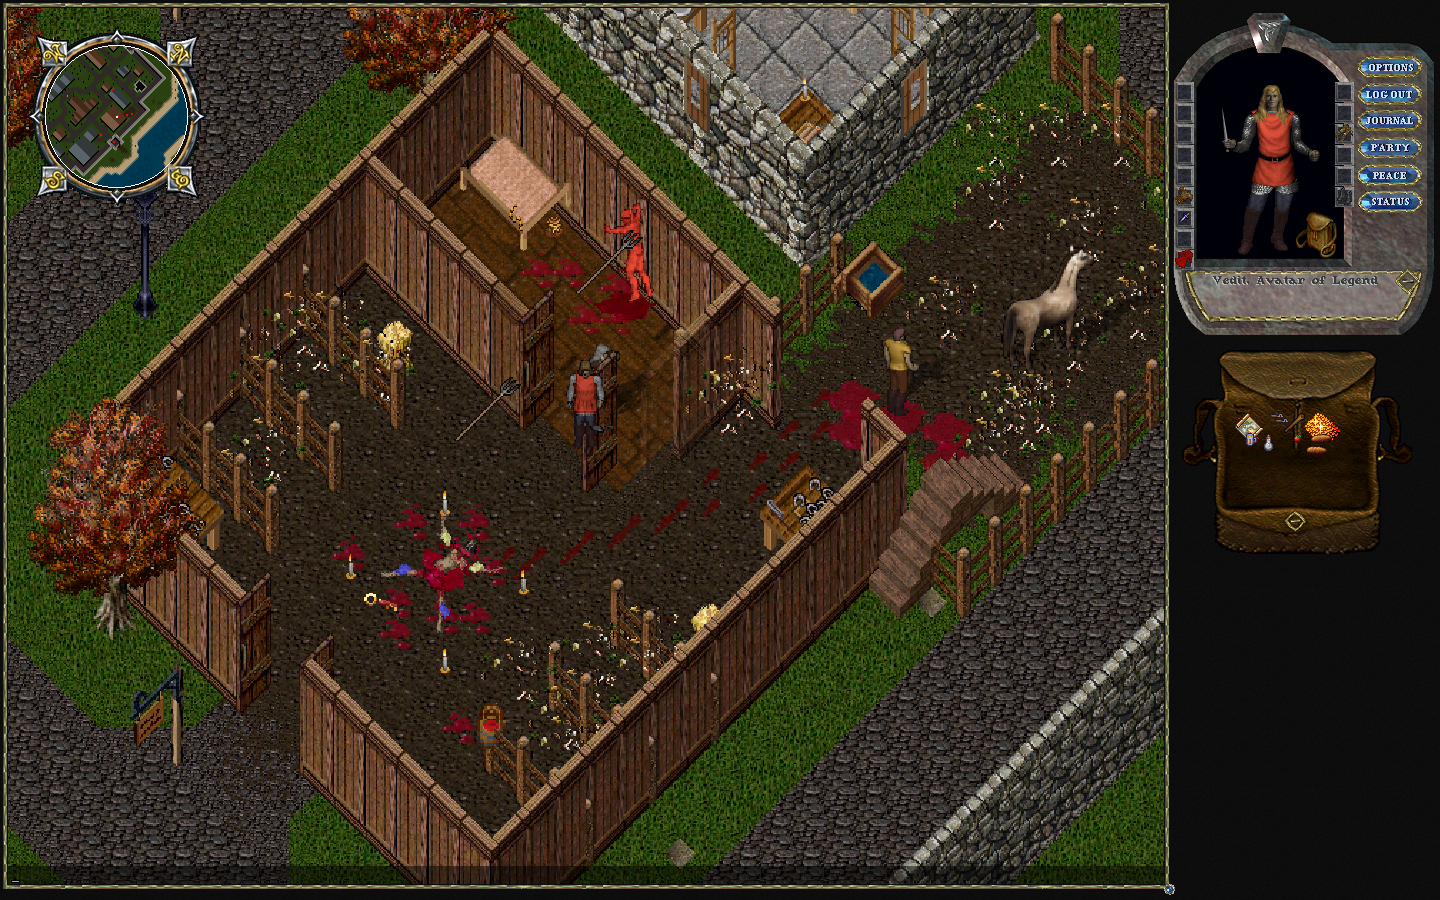
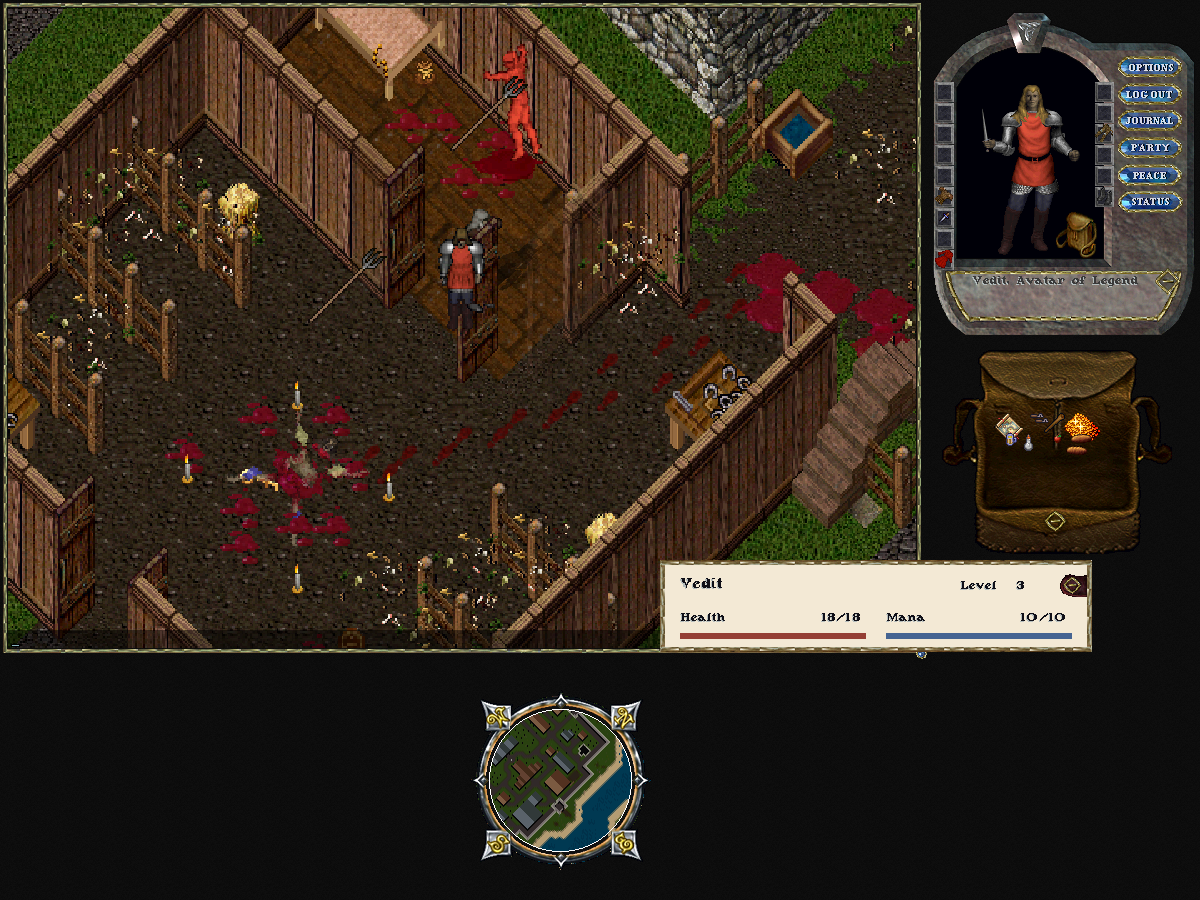
Refresh all three homepage comparisons from the current Trinsic client

diff --git a/index.html b/index.html
@@ -46,7 +46,7 @@
       <p class="build-note"><span class="status-dot" aria-hidden="true"></span> Browser demo · Bring your Ultima VII folder · No installation</p>
     </div>
     <figure class="hero-shot loadable">
-      <button class="image-open" type="button" data-compare="barn-overview" aria-label="Compare the barn murder scene in Ultima VII and Ultima Offline 7"><img src="site/barn-overview-uo7.png" width="1440" height="900" fetchpriority="high" alt="Christopher and Inamo at the Trinsic murder scene, with Vedit's paperdoll and the corrected Party button in ClassicUO."><span class="compare-invitation">U7 <span aria-hidden="true">↔</span> UO7 · Compare the scene</span></button>
+      <button class="image-open" type="button" data-compare="barn-overview" aria-label="Compare the barn murder scene in Ultima VII and Ultima Offline 7"><img src="site/barn-overview-uo7.png" width="1200" height="900" fetchpriority="high" alt="Christopher and Inamo in the Trinsic barn, with Vedit's paperdoll and compact health and mana bars."><span class="compare-invitation">U7 <span aria-hidden="true">↔</span> UO7 · Compare the scene</span></button>
       <figcaption><span><b>THE MURDER IN TRINSIC</b>U7 and UO7 · Actual gameplay captures</span><button type="button" class="caption-link" data-compare="barn-overview">Drag to compare <span aria-hidden="true">↗</span></button></figcaption>
     </figure>
   </section>
@@ -61,15 +61,15 @@
 
   <section class="comparison-section" aria-labelledby="comparison-title">
     <div class="wrap comparison-layout">
-      <div class="comparison-copy"><p class="eyebrow">FAMILIAR PLACES, SEEN ANEW</p><h2 id="comparison-title">Inside the<br>Fellowship.</h2><p>The same hall, seen through two different worlds. Compare the original Ultima VII interior with its ClassicUO presentation, from the gathering space to the familiar details.</p><div class="view-switch" role="group" aria-label="Choose a version of the Fellowship hall"><button type="button" data-view="current" aria-pressed="true">Ultima Offline 7</button><button type="button" data-view="original" aria-pressed="false">Original Ultima VII</button></div><p class="comparison-caption" id="comparison-caption" aria-live="polite">The Fellowship hall, captured in our development build.</p><a class="text-link" href="interiors.html?group=public#fellowship-hall">Explore the public interiors atlas <span aria-hidden="true">→</span></a></div>
-      <figure class="comparison-art loadable"><button class="image-open" type="button" data-compare="fellowship-interior" aria-label="Compare the Fellowship interior in Ultima VII and Ultima Offline 7"><img id="comparison-image" src="site/fellowship-interior-uo7.png" width="1440" height="900" loading="lazy" alt="The Fellowship hall interior recreated in ClassicUO."></button><figcaption>FELLOWSHIP HALL · TRINSIC <button type="button" class="caption-link" data-compare="fellowship-interior">Drag to compare ↗</button></figcaption></figure>
+      <div class="comparison-copy"><p class="eyebrow">FAMILIAR PLACES, SEEN ANEW</p><h2 id="comparison-title">Inside the<br>Fellowship.</h2><p>The same hall, seen through two different worlds. Compare the original Ultima VII interior with its ClassicUO presentation, from the gathering space to the familiar details.</p><div class="view-switch" role="group" aria-label="Choose a version of the Fellowship hall"><button type="button" data-view="current" aria-pressed="true">Ultima Offline 7</button><button type="button" data-view="original" aria-pressed="false">Original Ultima VII</button></div><p class="comparison-caption" id="comparison-caption" aria-live="polite">Vedit in the Fellowship hall with the character status sheet open.</p><a class="text-link" href="interiors.html?group=public#fellowship-hall">Explore the public interiors atlas <span aria-hidden="true">→</span></a></div>
+      <figure class="comparison-art loadable"><button class="image-open" type="button" data-compare="fellowship-interior" aria-label="Compare the Fellowship interior in Ultima VII and Ultima Offline 7"><img id="comparison-image" src="site/fellowship-interior-uo7.png" width="1200" height="900" loading="lazy" alt="Vedit in the Fellowship hall with the paperdoll and full character status sheet open."></button><figcaption>FELLOWSHIP HALL · TRINSIC <button type="button" class="caption-link" data-compare="fellowship-interior">Drag to compare ↗</button></figcaption></figure>
     </div>
   </section>
 
   <section id="trinsic" class="wrap section trinsic" aria-labelledby="trinsic-title">
     <div class="section-heading"><div><p class="eyebrow">THE FIRST PLAYABLE CHAPTER</p><h2 id="trinsic-title">It begins in <em>Trinsic.</em></h2></div><p>A strange dream. A red portal. A town with a terrible secret. Our first slice follows the opening through the murder investigation and departure through the city gate.</p></div>
     <div class="journey">
-      <figure class="dream-shot loadable"><button class="image-open" type="button" data-compare="guardian-dream" aria-label="Compare the Guardian dream with the original Ultima VII opening"><img src="site/guardian-dream-uo7.png" width="1440" height="900" loading="lazy" alt="The Guardian speaks over blue static while the Avatar sleeps on a bed in the in-engine dream sequence."></button><figcaption>A new in-engine opening, before the familiar investigation. <button type="button" class="caption-link" data-compare="guardian-dream">Compare the original Guardian ↗</button></figcaption></figure>
+      <figure class="dream-shot loadable"><button class="image-open" type="button" data-compare="guardian-dream" aria-label="Compare the Guardian dream with the original Ultima VII opening"><img src="site/guardian-dream-uo7.png" width="1200" height="900" loading="lazy" alt="The Guardian speaks over blue static while the Avatar sleeps on a bed in the in-engine dream sequence."></button><figcaption>A new in-engine opening, before the familiar investigation. <button type="button" class="caption-link" data-compare="guardian-dream">Compare the original Guardian ↗</button></figcaption></figure>
       <ol class="journey-steps"><li><span>01</span><div><h3>Become the Avatar.</h3><p>Choose your name and character, then enter the Guardian dream.</p></div></li><li><span>02</span><div><h3>Take the first step yourself.</h3><p>Wake up and walk into the red portal. Your movement carries you into Trinsic.</p></div></li><li><span>03</span><div><h3>Follow the original mystery.</h3><p>Talk to the townsfolk, examine the evidence and earn your passage through the gate.</p></div></li></ol>
     </div>
     <aside class="development-note"><span class="eyebrow">A WORK IN PROGRESS</span><p><strong>Trinsic is the starting point, not the whole campaign.</strong> The opening and investigation are playable in the Windows development build. The wider world, travel and remaining systems still need work and testing.</p><a href="https://github.com/vedit/ultima-offline-7/blob/main/docs/roadmap.md">Follow the roadmap <span aria-hidden="true">→</span></a></aside>
@@ -97,7 +97,7 @@
       <button type="button" data-pair="guardian-dream" aria-pressed="false">Guardian dream</button>
     </div>
     <div class="compare-stage" id="compare-stage" style="--split:50%" aria-busy="true">
-      <img id="compare-current" width="1440" height="900" alt="" draggable="false">
+      <img id="compare-current" width="1200" height="900" alt="" draggable="false">
       <img id="compare-original" class="compare-original" width="320" height="200" alt="" draggable="false">
       <span class="compare-label current-label">Ultima Offline 7</span><span class="compare-label original-label">Original Ultima VII</span>
       <input id="compare-slider" type="range" min="0" max="100" value="50" aria-label="Reveal Ultima Offline 7" aria-describedby="compare-help">

diff --git a/site/home.css b/site/home.css
@@ -24,9 +24,9 @@ dialog{border:1px solid #736c4c;background:#111a17;color:var(--paper);padding:16
 .compare-views{display:flex;justify-content:center;gap:8px;margin:0 0 14px;flex-wrap:wrap}
 .compare-views button{background:#1b2921;color:var(--muted);border:1px solid #52604a;padding:9px 17px;font-size:13px}
 .compare-views button[aria-pressed=true]{background:var(--gold);border-color:var(--gold);color:var(--ink)}
-.compare-stage{position:relative;isolation:isolate;aspect-ratio:8/5;width:min(100%,calc((100dvh - 245px)*1.6));margin:auto;background:#060907;overflow:hidden;user-select:none}
+.compare-stage{position:relative;isolation:isolate;aspect-ratio:4/3;width:min(100%,calc((100dvh - 245px)*4/3));margin:auto;background:#060907;overflow:hidden;user-select:none}
 .compare-stage img{position:absolute;inset:0;width:100%;height:100%;max-height:none;object-fit:contain;pointer-events:none;image-rendering:pixelated}
-.compare-original{clip-path:inset(0 0 0 var(--split))}
+.compare-original{background:#060907;clip-path:inset(0 0 0 var(--split))}
 .compare-label{position:absolute;top:12px;z-index:2;background:#111a17ed;border:1px solid #a28e61;padding:5px 10px;font-size:11px;pointer-events:none;color:var(--paper);box-shadow:0 2px 8px #0008}
 .current-label{left:12px}.original-label{right:12px}
 #compare-slider{position:absolute;inset:0;z-index:3;width:100%;height:100%;margin:0;opacity:0;cursor:ew-resize;touch-action:none}
@@ -41,8 +41,8 @@ dialog{border:1px solid #736c4c;background:#111a17;color:var(--paper);padding:16
 .compare-originals{display:flex;justify-content:center;gap:22px;margin-top:8px;font-size:11px;color:var(--gold)}
 .compare-originals a{text-decoration:underline;text-underline-offset:3px}
 #screenshot-caption{text-align:center}
-@media(max-width:760px){.compare-label{font-size:9px;top:7px;padding:4px 6px}.current-label{left:7px}.original-label{right:7px}.compare-views button{font-size:12px;padding:9px 12px}.compare-invitation{font-size:10px;bottom:8px;right:8px;padding:6px 9px}.compare-stage{width:min(100%,calc((100dvh - 275px)*1.6))}#screenshot-dialog .compare-help{font-size:11px}.compare-originals{gap:16px;font-size:10px}}
+@media(max-width:760px){.compare-label{font-size:9px;top:7px;padding:4px 6px}.current-label{left:7px}.original-label{right:7px}.compare-views button{font-size:12px;padding:9px 12px}.compare-invitation{font-size:10px;bottom:8px;right:8px;padding:6px 9px}.compare-stage{width:min(100%,calc((100dvh - 275px)*4/3))}#screenshot-dialog .compare-help{font-size:11px}.compare-originals{gap:16px;font-size:10px}}
 @media(prefers-reduced-motion:reduce){.compare-spinner{animation:none}}
 body:has(#screenshot-dialog[open]){overflow:hidden}
-.comparison-art .image-open{max-width:640px;background:transparent}.comparison-art .image-open img{width:100%;height:auto;image-rendering:pixelated}.comparison-art figcaption .caption-link{display:inline-block;margin-left:16px;color:#3f4f3b;letter-spacing:0}
+.comparison-art .image-open{max-width:640px;background:transparent}.comparison-art .image-open img{width:100%;height:auto;aspect-ratio:4/3;object-fit:contain;background:#060907;image-rendering:pixelated}.comparison-art figcaption .caption-link{display:inline-block;margin-left:16px;color:#3f4f3b;letter-spacing:0}
 @media(min-width:761px){#screenshot-dialog:has(#screenshot-comparison:not([hidden])) form{position:absolute;top:16px;right:16px;z-index:5;margin:0}.compare-views{margin-inline:100px;min-height:42px}}

diff --git a/site/home.js b/site/home.js
@@ -17,8 +17,8 @@
         button.addEventListener('click', () => {
             const original = button.dataset.view === 'original';
             image.src = original ? 'site/fellowship-interior-u7.png' : 'site/fellowship-interior-uo7.png';
-            image.alt = original ? 'The Fellowship hall interior in original Ultima VII.' : 'The Fellowship hall interior recreated in ClassicUO.';
-            caption.textContent = original ? 'The original Ultima VII room. Different camera, familiar details.' : 'The Fellowship hall, captured in our development build.';
+            image.alt = original ? 'The Fellowship hall interior in original Ultima VII.' : 'Vedit in the Fellowship hall with the paperdoll and full character status sheet open.';
+            caption.textContent = original ? 'The original Ultima VII room. Different camera, familiar details.' : 'Vedit in the Fellowship hall with the character status sheet open.';
             for (const sibling of document.querySelectorAll('[data-view]')) sibling.setAttribute('aria-pressed', String(sibling === button));
         });
     }
@@ -32,8 +32,8 @@
     const loading = document.getElementById('compare-loading');
     const error = document.getElementById('compare-error');
     const pairs = {
-        'barn-overview': {title: 'The murder in Trinsic — Christopher and Inamo', description: 'The barn murder scene with both victims visible'},
-        'fellowship-interior': {title: 'Inside the Fellowship — Trinsic', description: 'The Fellowship hall interior'},
+        'barn-overview': {title: 'The murder in Trinsic — Christopher and Inamo', description: 'The barn murder scene with both victims visible', currentAlt: "Christopher and Inamo in the Trinsic barn, with Vedit's paperdoll and compact health and mana bars."},
+        'fellowship-interior': {title: 'Inside the Fellowship — Trinsic', description: 'The Fellowship hall interior', currentAlt: 'Vedit in the Fellowship hall with the paperdoll and full character status sheet open.'},
         'guardian-dream': {
             title: 'The Guardian — original opening and playable dream',
             originalAlt: 'The Guardian speaking against blue static in the original Ultima VII DOS opening cutscene.',
@@ -63,7 +63,7 @@
         originalImage.src = `site/${id}-u7.png`;
         originalImage.alt = pair.originalAlt || `${pair.description} in the original Ultima VII renderer.`;
         currentImage.src = `site/${id}-uo7.png`;
-        currentImage.alt = pair.currentAlt || `${pair.description} in Ultima Offline 7, with Vedit's paperdoll.`;
+        currentImage.alt = pair.currentAlt;
         document.getElementById('compare-help').textContent = pair.help || 'Drag the divider, or use the arrow keys. Same saved scene, different camera perspectives.';
         document.getElementById('compare-u7-link').href = originalImage.src;
         document.getElementById('compare-uo7-link').href = currentImage.src;
